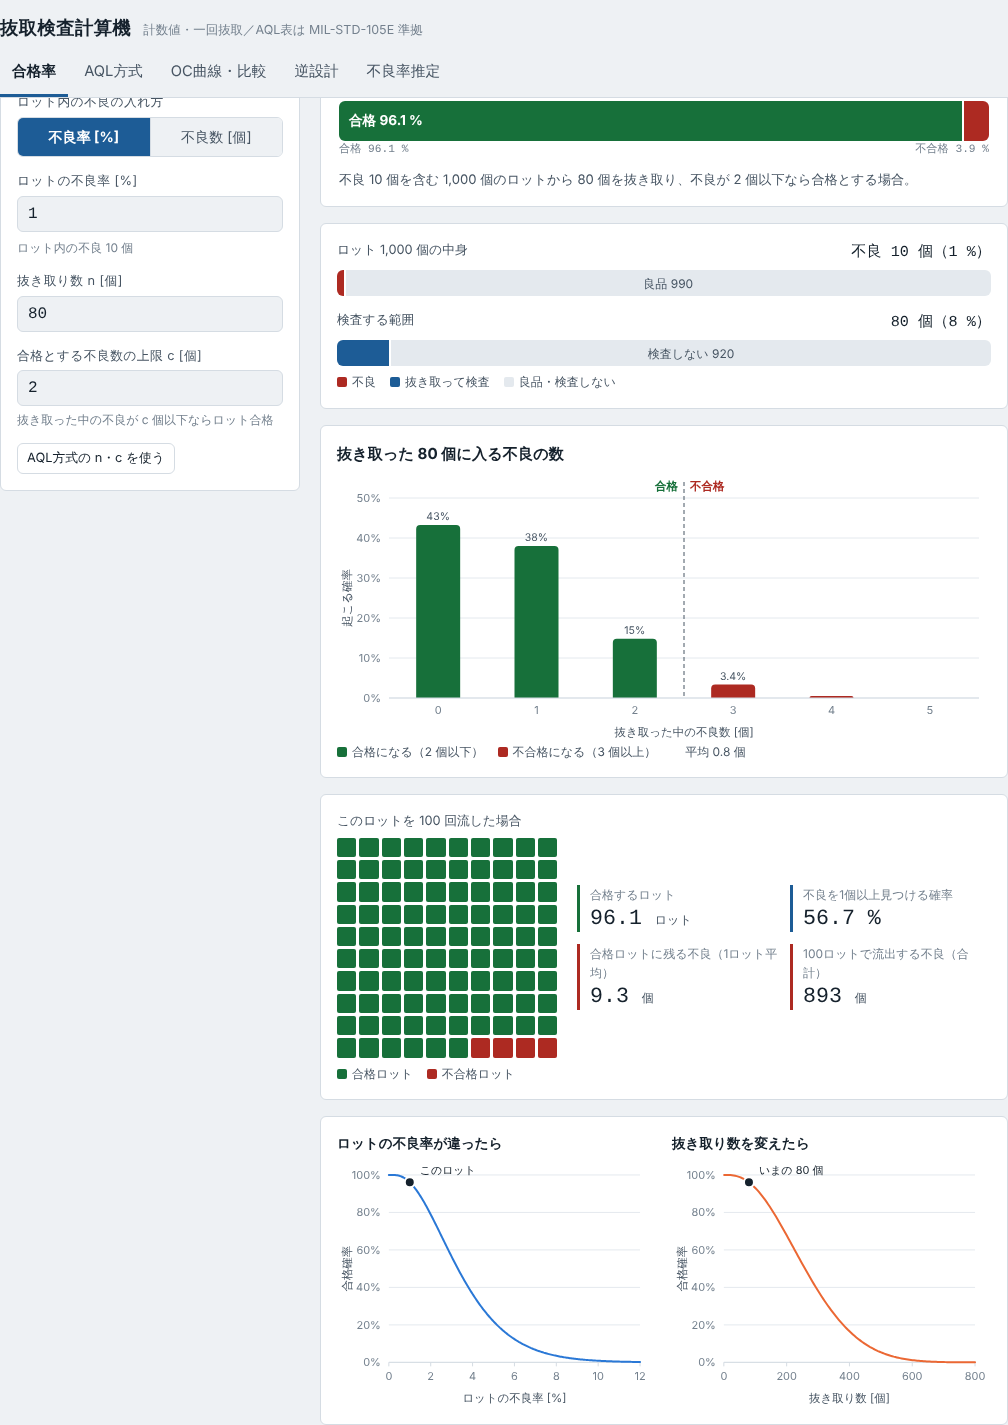
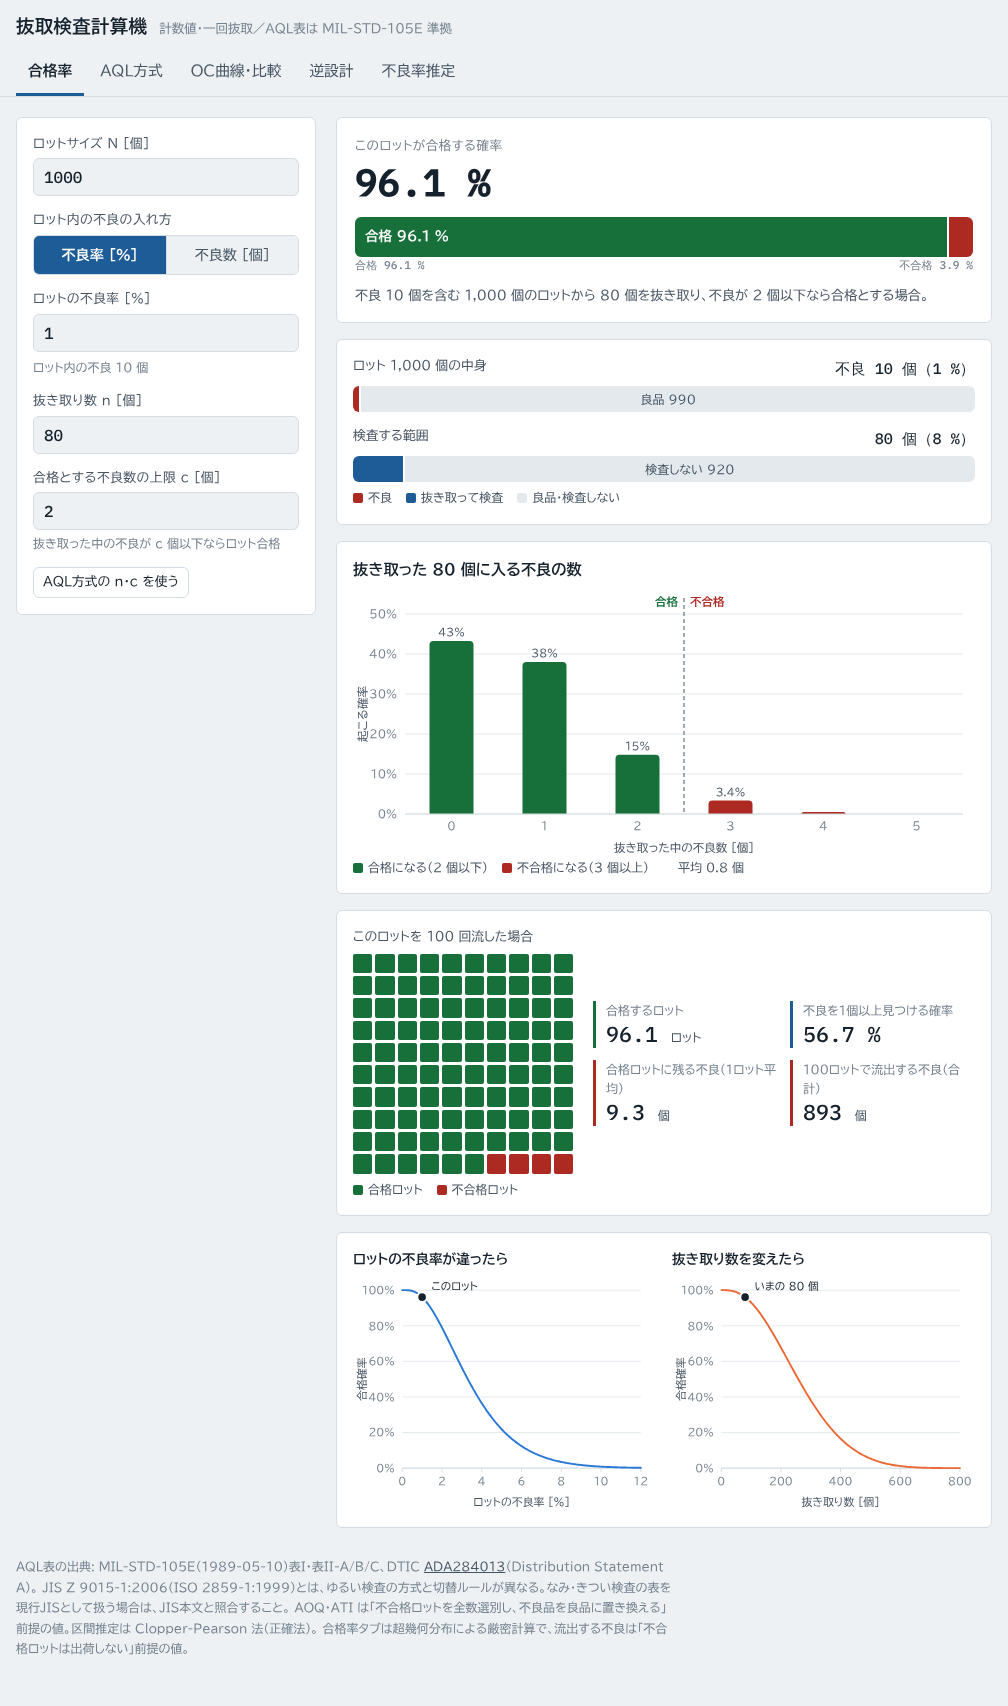
README のスクリーンショットを正しい日本語フォントで撮り直す
Google Fonts が読めない状態で撮っていたため、BIZ UDPゴシック・IBM Plex Mono が当たらず
代替フォント（中国語字形を含む）で写っていた。フォントをローカルから読み込み、
読み込みを確認してから撮影するスクリプト tools/screenshots.py を追加し、全6枚を撮り直した。

diff --git a/tools/screenshots.py b/tools/screenshots.py
@@ -1,0 +1,84 @@
+# README 用スクリーンショット（docs/screenshots/*.png）を撮り直す
+#
+# Google Fonts が読めない環境で撮ると BIZ UDPゴシックが当たらず、中国語字形などの代替フォントで写る。
+# これを防ぐため、Google Fonts への要求を fontsource のローカルファイルに差し替え、
+# 読み込みを確認してから撮影する（読めていなければ中断）。
+#
+# 準備（任意の作業フォルダで）:
+#   npm pack @fontsource/biz-udpgothic @fontsource/ibm-plex-mono
+#   上の2つの .tgz を展開（tar -xzf <ファイル> --one-top-level）
+#   pip install playwright && python -m playwright install chromium
+# 実行:
+#   python tools/screenshots.py <フォント展開先フォルダ>
+#   （Chromium の場所を指定する場合は環境変数 CHROME_PATH）
+import os, pathlib, sys
+from playwright.sync_api import sync_playwright
+
+REPO = pathlib.Path(__file__).resolve().parent.parent
+FONTS = pathlib.Path(sys.argv[1])
+OUT = REPO / "docs/screenshots"
+BIZ = next(FONTS.glob("fontsource-biz-udpgothic-*/package/files"))
+PLEX = next(FONTS.glob("fontsource-ibm-plex-mono-*/package/files"))
+
+# Google Fonts の CSS を fontsource の CSS（unicode-range 分割済み）に差し替え、ローカルのファイルを返す
+def _css(pkg, name, tag):
+    return (pkg.parent / name).read_text(encoding="utf-8").replace("./files/", f"https://fonts.gstatic.com/local/{tag}/")
+CSS = _css(BIZ, "400.css", "biz") + _css(BIZ, "700.css", "biz") + _css(PLEX, "500.css", "plex")
+DIRS = {"biz": BIZ, "plex": PLEX}
+
+def route_fonts(route):
+    url = route.request.url
+    if "fonts.googleapis.com" in url:
+        route.fulfill(status=200, content_type="text/css", body=CSS)
+    elif "fonts.gstatic.com/local/" in url:
+        tag, name = url.split("/local/", 1)[1].split("/", 1)
+        ctype = "font/woff2" if name.endswith("woff2") else "font/woff"
+        route.fulfill(status=200, content_type=ctype, body=(DIRS[tag] / name).read_bytes(),
+                      headers={"Access-Control-Allow-Origin": "*"})
+    else:
+        route.continue_()
+
+def open_page(browser, url, **ctx):
+    c = browser.new_context(service_workers="block", **ctx)
+    p = c.new_page()
+    p.route("**/*", route_fonts)
+    p.goto(url)
+    p.wait_for_load_state("networkidle")
+    # フォントが実際に使われているか確認（読めていなければ中断）
+    ok = p.evaluate("""async () => { await document.fonts.ready;
+        return [document.fonts.check("15px 'BIZ UDPGothic'", "合格率"),
+                document.fonts.check("15px 'IBM Plex Mono'", "96.1")]; }""")
+    assert all(ok), f"フォント未読込: {ok}"
+    return c, p
+
+def show_tab(p, tab):
+    p.click(f'nav.tabs button[data-tab="{tab}"]')
+    p.wait_for_timeout(500)
+    p.evaluate("document.fonts.ready")
+
+with sync_playwright() as pw:
+    b = pw.chromium.launch(executable_path=os.environ.get("CHROME_PATH") or None)
+    url = (REPO / "index.html").as_uri()
+
+    # デスクトップ（ライト）：各タブの全体
+    c, p = open_page(b, url, viewport={"width": 1008, "height": 800}, color_scheme="light")
+    for tab in ["lot", "aql", "oc", "design", "est"]:
+        show_tab(p, tab)
+        p.evaluate("window.scrollTo(0,0)")
+        p.screenshot(path=str(OUT / f"{tab}.png"), full_page=True)
+    c.close()
+
+    # スマホ（ダーク）：合格率タブの先頭
+    c, p = open_page(b, url, viewport={"width": 390, "height": 844}, device_scale_factor=2,
+                     is_mobile=True, has_touch=True, color_scheme="dark")
+    show_tab(p, "lot")
+    # 結果カード（合格する確率）がヘッダー直下に来るまでスクロール
+    p.evaluate("""() => { const h = document.querySelector('header.top').getBoundingClientRect().height;
+        const el = [...document.querySelectorAll('#p-lot *')].filter(e => e.offsetParent && e.children.length === 0 && e.textContent.trim() === 'このロットが合格する確率')[0];
+        const card = el.closest('.card') || el.parentElement;
+        window.scrollTo(0, card.getBoundingClientRect().top + window.scrollY - h - 12); }""")
+    p.wait_for_timeout(300)
+    p.screenshot(path=str(OUT / "mobile.png"))
+    c.close()
+    b.close()
+print("done")

diff --git a/DEVELOPMENT.md b/DEVELOPMENT.md
@@ -17,13 +17,14 @@ js/aql-table.js       MIL-STD-105E の表データ
 tests/                計算の照合テスト（test.js / test.html / check.js / reference.js）
 .github/workflows/     push 時の自動テスト
 docs/screenshots/     README 用のスクリーンショット
+tools/screenshots.py  スクリーンショットの撮影スクリプト
 ```
 
 ## 更新して公開するとき
 
 `index.html`・`js/`・`icons/` を変更したら、**`sw.js` 先頭の `VERSION` を必ず上げてから** push してください。上げないと、すでに使っている人の端末に古いファイルが残り続けます。
 
-画面の見た目を変えたときは、`docs/screenshots/` の画像も撮り直してください（README に載せています）。
+画面の見た目を変えたときは、`docs/screenshots/` の画像も撮り直してください（README に載せています）。撮影は `tools/screenshots.py` で行います（準備手順はファイル先頭に記載）。Google Fonts が読めない状態で撮ると日本語が代替フォント（中国語字形など）で写るため、このスクリプトはフォントをローカルから読み込み、読めていなければ中断します。
 
 ファイルを直接開いた場合（file://）はオフライン機能が動きません（計算は動きます）。
 
